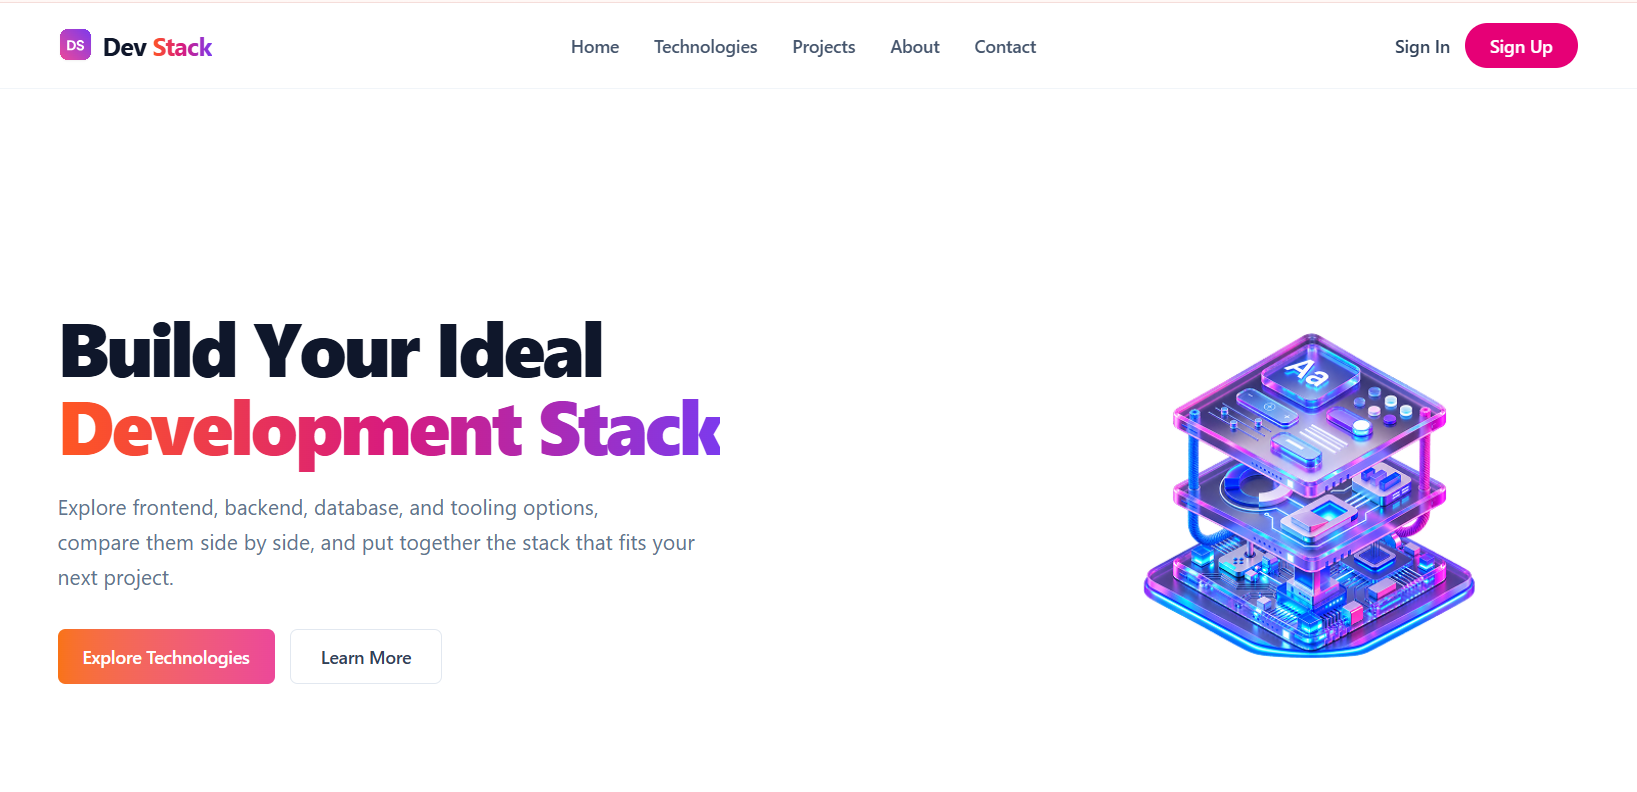
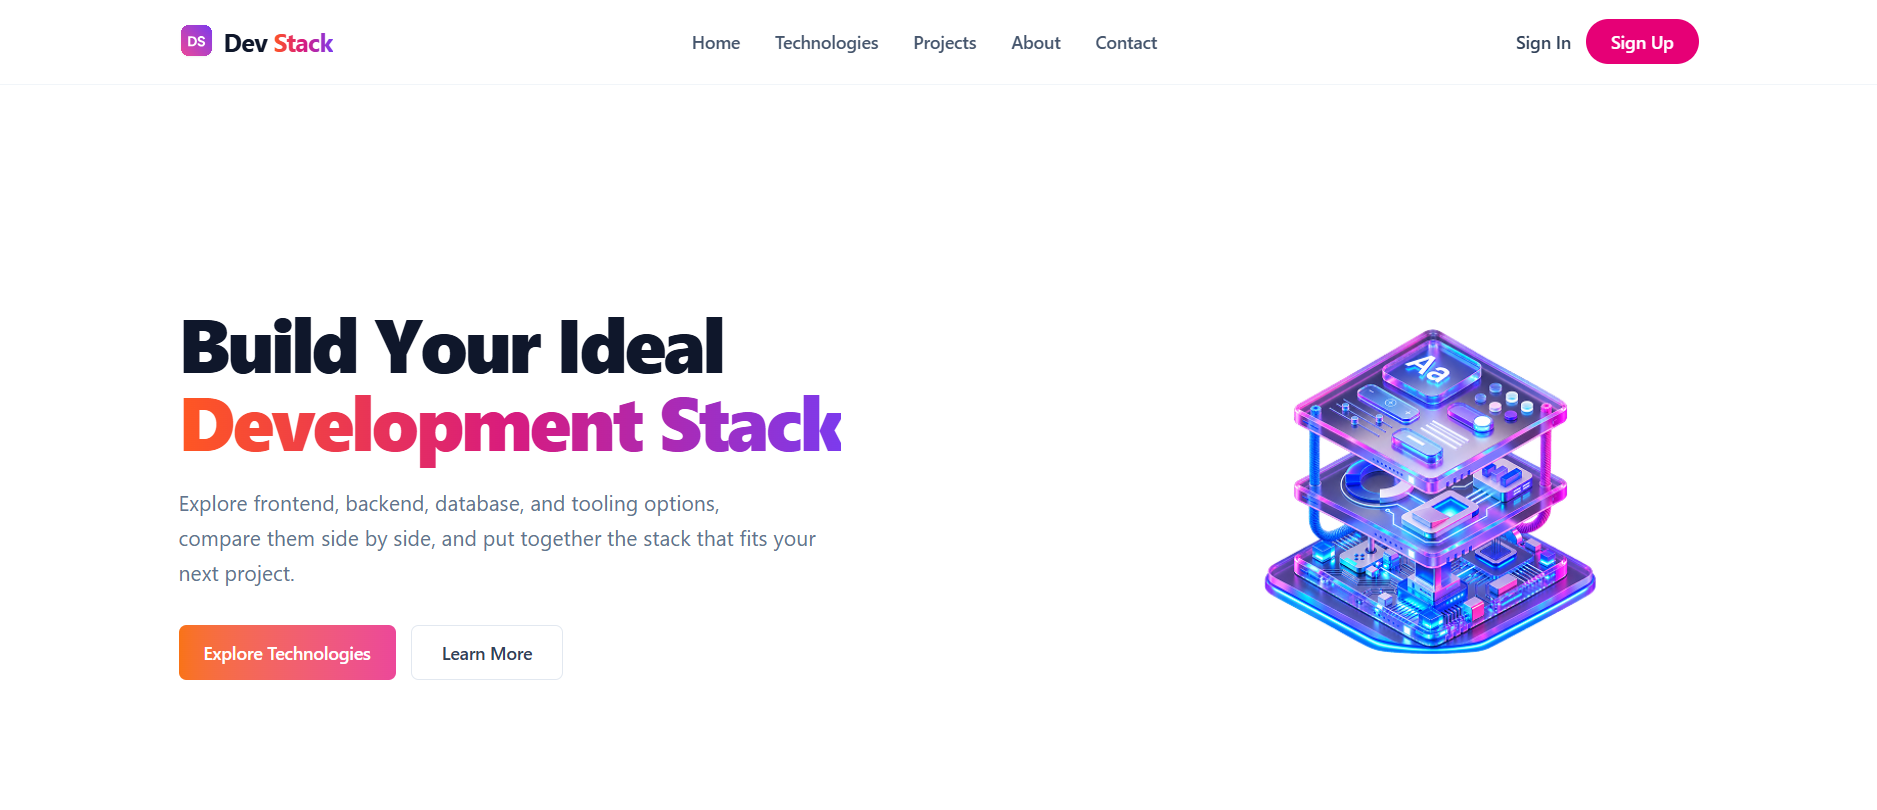
some problem solved

diff --git a/src/app/projects/[slug]/page.tsx b/src/app/projects/[slug]/page.tsx
@@ -1,7 +1,9 @@
+
 import type { Metadata } from "next";
 import Image from "next/image";
 import Link from "next/link";
 import { notFound } from "next/navigation";
+import { Suspense } from "react";
 
 import {
   ArrowLeft,
@@ -57,12 +59,30 @@ export async function generateMetadata({
   }
 
   return {
-    title: `${project.name} | Md Jonaed Joshim`,
+    title: `${project.name} | Md. Jikrul Islam Jeto`,
     description: detail.overview,
   };
 }
 
-export default async function ProjectDetailsPage({ params }: PageProps) {
+// PAGE WRAPPER
+export default function ProjectDetailsPage({ params }: PageProps) {
+  return (
+    <Suspense
+      fallback={
+        <main className="min-h-screen">
+          <div className="container-custom py-16">
+            <p className="text-muted">Loading project...</p>
+          </div>
+        </main>
+      }
+    >
+      <ProjectDetailsContent params={params} />
+    </Suspense>
+  );
+}
+
+// PROJECT DETAILS CONTENT
+async function ProjectDetailsContent({ params }: PageProps) {
   const { slug } = await params;
 
   const project = projects.find((item) => item.slug === slug);
@@ -196,7 +216,11 @@ export default async function ProjectDetailsPage({ params }: PageProps) {
             {/* CHALLENGES */}
             <section aria-labelledby="challenges-heading">
               <div className="flex items-center gap-3">
-                <Wrench size={21} aria-hidden="true" className="text-accent" />
+                <Wrench
+                  size={21}
+                  aria-hidden="true"
+                  className="text-accent"
+                />
 
                 <h2
                   id="challenges-heading"
@@ -306,6 +330,7 @@ export default async function ProjectDetailsPage({ params }: PageProps) {
                 </div>
               </div>
 
+              {/* LIVE PROJECT LINK */}
               <div className="mt-7 border-t border-border pt-6">
                 <a
                   href={project.liveUrl}
